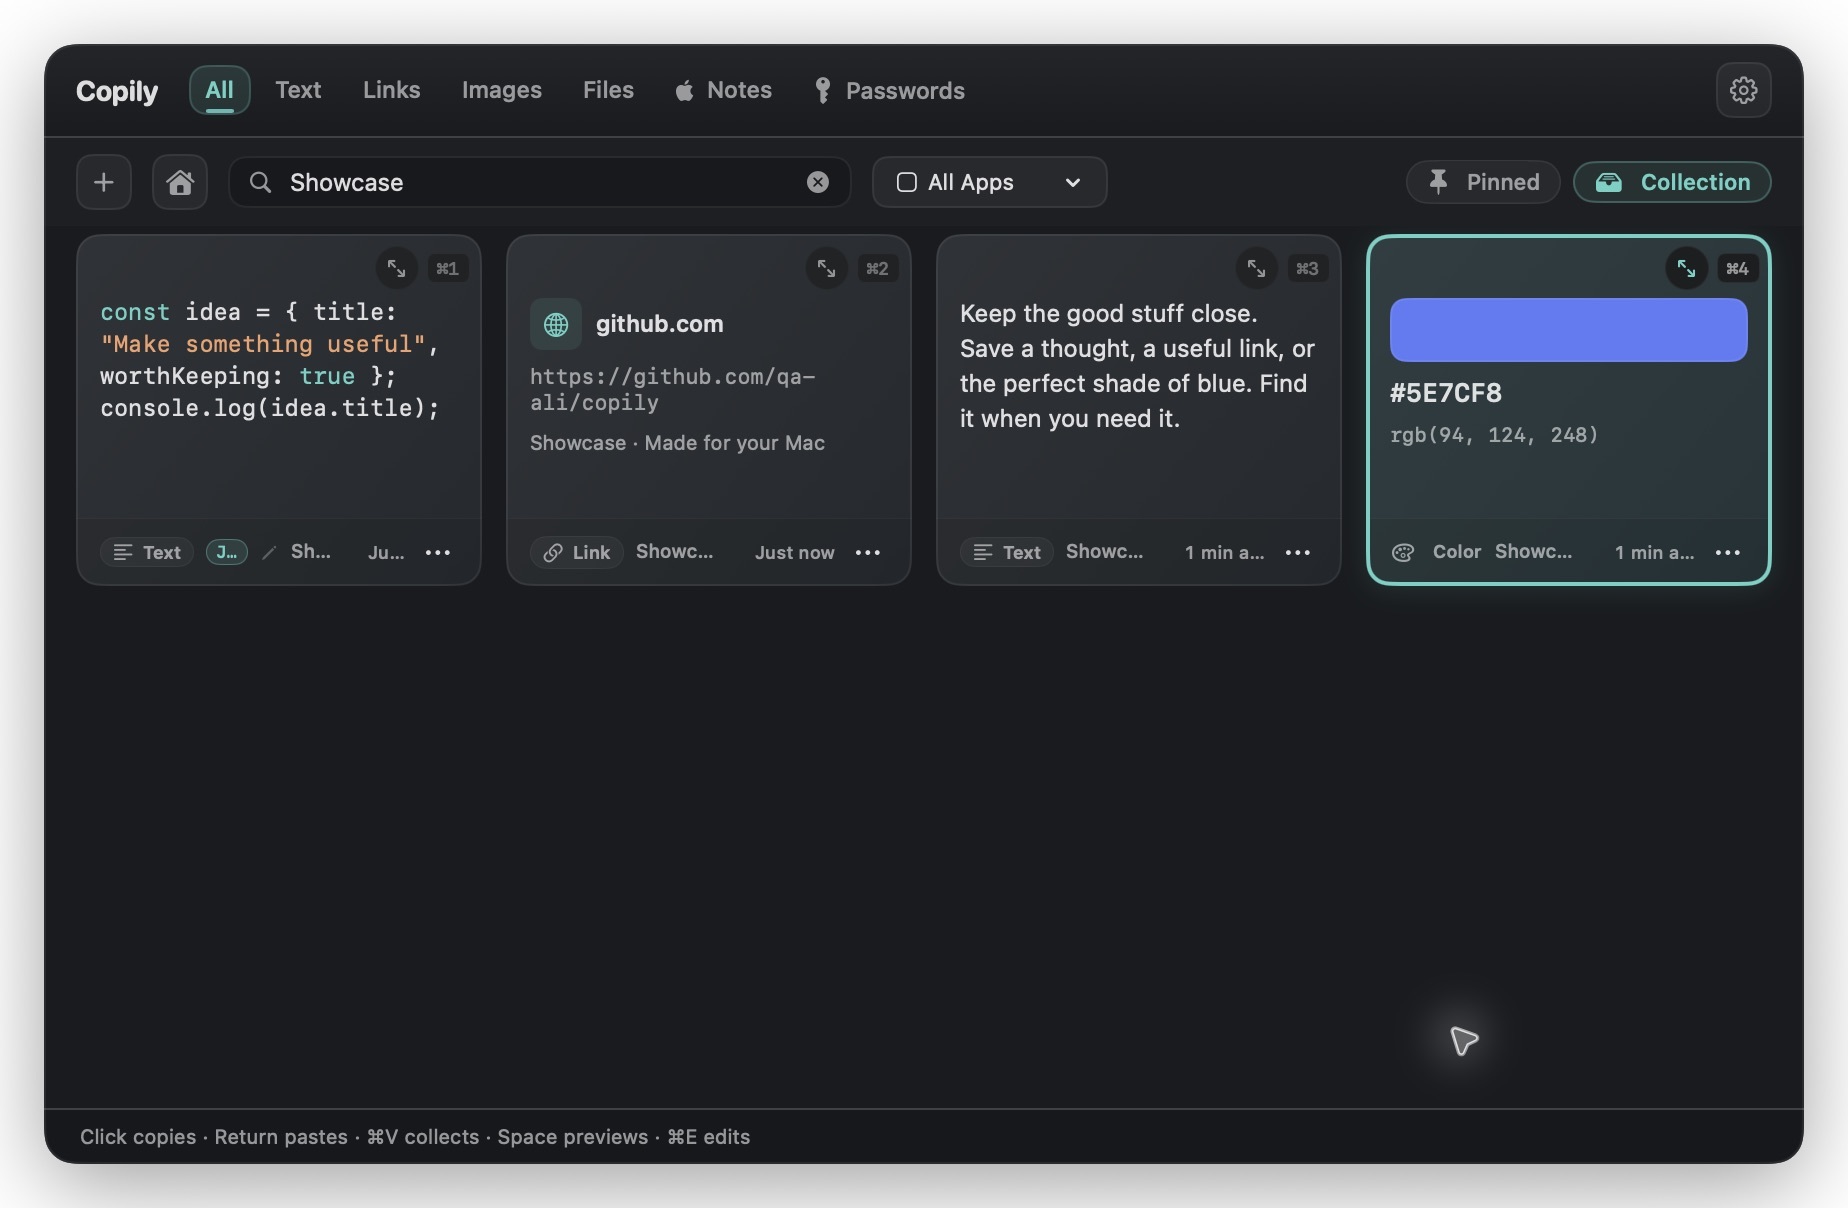
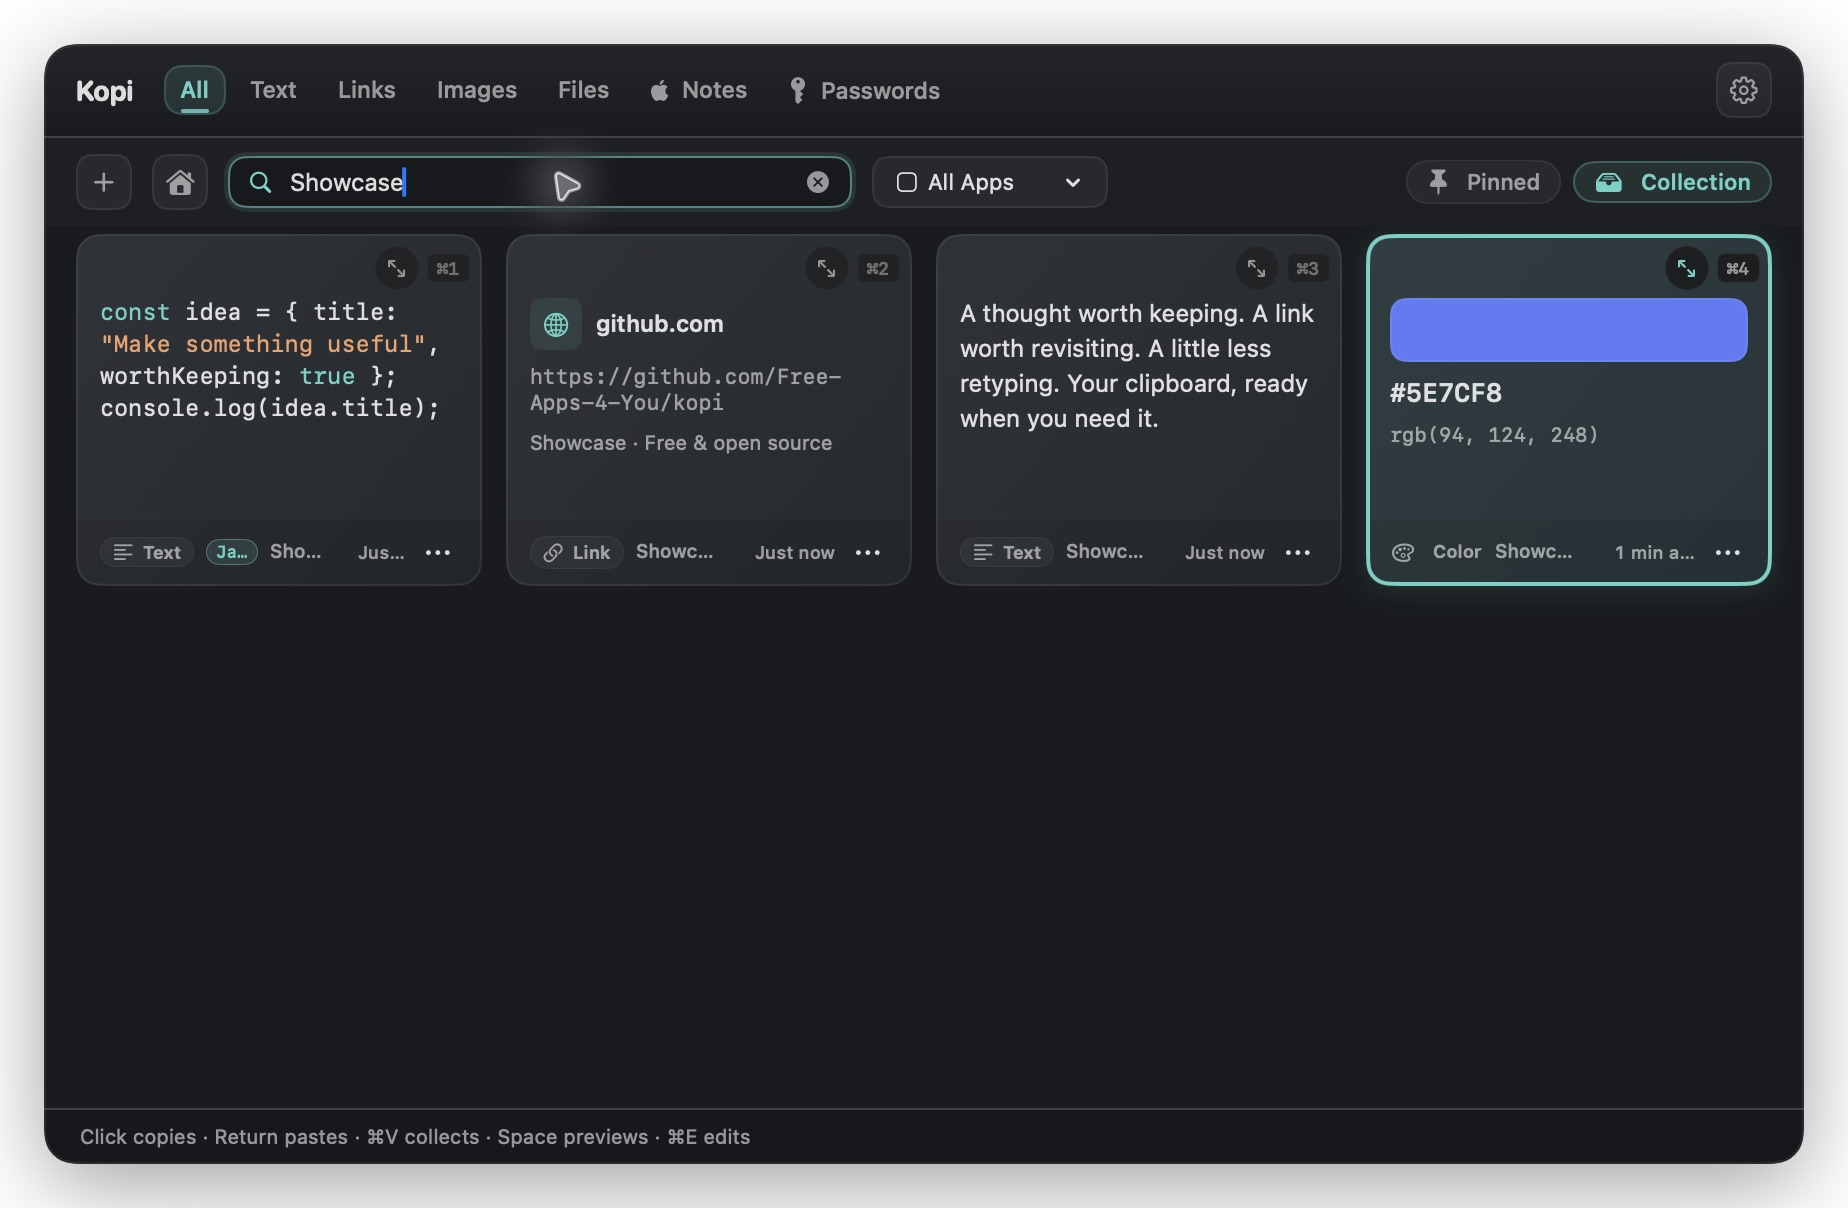
Isolate historical migration identifiers and refresh Kopi screenshots

diff --git a/Sources/KopiCore/App/KopiSettings.swift b/Sources/KopiCore/App/KopiSettings.swift
@@ -147,7 +147,7 @@ public final class KopiSettingsStore: ObservableObject {
     ///
     /// This is an archived suite name: its values are read once, when the current
     /// suite has no settings yet, and never written again.
-    public static let archivedSuiteName = "com.copily.Copily"
+    public static let archivedSuiteName = LegacyAppIdentity.settingsSuiteName
     public static let archivedSuiteNames = [archivedSuiteName, "com.velpy.Velpy"]
     public static let storageKey = "kopi.settings"
     /// Set once the archived suite has been considered, so Reset to Defaults is not
@@ -189,8 +189,8 @@ public final class KopiSettingsStore: ObservableObject {
               !current.bool(forKey: migrationKey)
         else { return }
         // A reset in the previous app must not reimport an even older preference.
-        if archived.data(forKey: "copily.settings") == nil,
-           archived.bool(forKey: "copily.settings.migrationCompleted") {
+        if archived.data(forKey: LegacyAppIdentity.settingsStorageKey) == nil,
+           archived.bool(forKey: LegacyAppIdentity.settingsMigrationKey) {
             current.set(try? JSONEncoder().encode(KopiSettings()), forKey: storageKey)
             current.set(true, forKey: migrationKey)
             return
@@ -208,7 +208,7 @@ public final class KopiSettingsStore: ObservableObject {
     /// Undecodable values, values that carry no choice, and the unrelated
     /// system-wide defaults a `UserDefaults` view also reports are ignored.
     private static func archivedSettingsBlob(in archived: UserDefaults) -> Data? {
-        for key in [storageKey, "copily.settings", "velpy.settings"] {
+        for key in [storageKey, LegacyAppIdentity.settingsStorageKey, "velpy.settings"] {
             if let data = archived.data(forKey: key),
                (try? JSONDecoder().decode(KopiSettings.self, from: data)) != nil { return data }
         }

diff --git a/Tests/KopiCoreTests/DataMigrationTests.swift b/Tests/KopiCoreTests/DataMigrationTests.swift
@@ -70,7 +70,7 @@ struct ApplicationDataMigrationTests {
     func newestArchiveWins() throws {
         let support = supportDirectory()
         defer { try? FileManager.default.removeItem(at: support) }
-        try write("recent", to: support.appendingPathComponent("Copily/history.sqlite"))
+        try write("recent", to: support.appendingPathComponent("\(LegacyAppIdentity.supportDirectoryName)/history.sqlite"))
         try write("old", to: support.appendingPathComponent("Velpy/history.sqlite"))
         #expect(try ApplicationDataMigration.migrateSupportDirectoryIfNeeded(supportDirectory: support))
         #expect(try String(contentsOf: currentDirectory(in: support).appendingPathComponent("history.sqlite"), encoding: .utf8) == "recent")
@@ -138,7 +138,7 @@ struct SettingsMigrationTests {
     func importsExplicitPreviousDefaults() throws {
         try withSuites { current, archived in
             let blob = try JSONEncoder().encode(KopiSettings())
-            archived.set(blob, forKey: "copily.settings")
+            archived.set(blob, forKey: LegacyAppIdentity.settingsStorageKey)
             let migrated = KopiSettingsStore(defaults: current, archivedDefaults: archived)
             #expect(migrated.settings == KopiSettings())
             #expect(current.data(forKey: KopiSettingsStore.storageKey) == blob)
@@ -148,7 +148,7 @@ struct SettingsMigrationTests {
     @Test("A previous-app reset prevents resurrection of older preferences")
     func importsPreviousReset() throws {
         try withSuites { current, archived in
-            archived.set(true, forKey: "copily.settings.migrationCompleted")
+            archived.set(true, forKey: LegacyAppIdentity.settingsMigrationKey)
             var stale = KopiSettings()
             stale.appearance = .dark
             archived.set(try JSONEncoder().encode(stale), forKey: "velpy.settings")

diff --git a/Sources/KopiCore/Persistence/HistoryStoreSchema.swift b/Sources/KopiCore/Persistence/HistoryStoreSchema.swift
@@ -12,14 +12,14 @@ enum HistoryStoreSchema {
             try db.execute(sql: schemaV2)
         }
         // Historical migration identifiers and table names must remain readable.
-        migrator.registerMigration("v3_copily_metadata") { db in
-            if try !db.tableExists("copily_metadata"), try db.tableExists("velpy_metadata") {
-                try db.execute(sql: "ALTER TABLE velpy_metadata RENAME TO copily_metadata")
+        migrator.registerMigration(LegacyAppIdentity.metadataMigration) { db in
+            if try !db.tableExists(LegacyAppIdentity.metadataTable), try db.tableExists("velpy_metadata") {
+                try db.execute(sql: "ALTER TABLE velpy_metadata RENAME TO \(LegacyAppIdentity.metadataTable)")
             }
         }
         migrator.registerMigration("v4_kopi_metadata") { db in
-            if try !db.tableExists("kopi_metadata"), try db.tableExists("copily_metadata") {
-                try db.execute(sql: "ALTER TABLE copily_metadata RENAME TO kopi_metadata")
+            if try !db.tableExists("kopi_metadata"), try db.tableExists(LegacyAppIdentity.metadataTable) {
+                try db.execute(sql: "ALTER TABLE \(LegacyAppIdentity.metadataTable) RENAME TO kopi_metadata")
             }
         }
         try migrator.migrate(writer)

diff --git a/Tests/KopiCoreTests/HistoryStorePersistenceTests.swift b/Tests/KopiCoreTests/HistoryStorePersistenceTests.swift
@@ -20,7 +20,7 @@ struct HistoryStorePersistenceTests {
         try await database.write { db in
             // Reproduce the database left by the app before its rename.
             try db.execute(sql: "ALTER TABLE kopi_metadata RENAME TO velpy_metadata")
-            try db.execute(sql: "DELETE FROM grdb_migrations WHERE identifier IN ('v3_copily_metadata', 'v4_kopi_metadata')")
+            try db.execute(sql: "DELETE FROM grdb_migrations WHERE identifier IN ('\(LegacyAppIdentity.metadataMigration)', 'v4_kopi_metadata')")
             try db.execute(sql: "INSERT INTO velpy_metadata(key, value) VALUES ('upgrade_marker', 'preserved')")
         }
 
@@ -49,7 +49,7 @@ struct HistoryStorePersistenceTests {
         let inserted = try await workspace.store.insert(textInsertion("Already using the new name"))
         let database = try DatabaseQueue(path: workspace.databasePath)
         try await database.write { db in
-            try db.execute(sql: "ALTER TABLE kopi_metadata RENAME TO copily_metadata")
+            try db.execute(sql: "ALTER TABLE kopi_metadata RENAME TO \(LegacyAppIdentity.metadataTable)")
             try db.execute(sql: "DELETE FROM grdb_migrations WHERE identifier = 'v4_kopi_metadata'")
         }
 

diff --git a/Tests/KopiCoreTests/ClipboardInspiredFeaturesTests.swift b/Tests/KopiCoreTests/ClipboardInspiredFeaturesTests.swift
@@ -7,8 +7,8 @@ import Testing
 struct ClipboardInspiredFeaturesTests {
     @Test("Previous app identities are displayed and filtered as Kopi")
     func previousBrandIdentity() {
-        #expect(SourceAppInfo.canonicalBundleIdentifier("com.copily.app") == "com.kopi.app")
-        #expect(SourceAppInfo(bundleIdentifier: "com.copily.app", name: "Copily").kopiDisplayName == "Kopi")
+        #expect(SourceAppInfo.canonicalBundleIdentifier(LegacyAppIdentity.bundleIdentifier) == "com.kopi.app")
+        #expect(SourceAppInfo(bundleIdentifier: LegacyAppIdentity.bundleIdentifier, name: LegacyAppIdentity.supportDirectoryName).kopiDisplayName == "Kopi")
     }
 
     @Test("Colors recognize explicit HEX and RGB formats without guessing ordinary text")

diff --git a/Sources/KopiCore/App/LegacyAppIdentity.swift b/Sources/KopiCore/App/LegacyAppIdentity.swift
@@ -1,0 +1,11 @@
+/// Read-only identifiers from the previous release. These are migration inputs,
+/// never current branding. Changing them would make existing user data invisible.
+public enum LegacyAppIdentity {
+    public static let supportDirectoryName = "Copily"
+    public static let bundleIdentifier = "com.copily.app"
+    public static let settingsSuiteName = "com.copily.Copily"
+    public static let settingsStorageKey = "copily.settings"
+    public static let settingsMigrationKey = "copily.settings.migrationCompleted"
+    public static let metadataTable = "copily_metadata"
+    public static let metadataMigration = "v3_copily_metadata"
+}

diff --git a/Sources/KopiCore/Domain/FileReference.swift b/Sources/KopiCore/Domain/FileReference.swift
@@ -4,7 +4,7 @@ import Foundation
 public struct SourceAppInfo: Sendable, Hashable, Codable {
     public static let kopiBundleIdentifier = "com.kopi.app"
     /// These identify the same app in history written before its rename.
-    public static let kopiBundleIdentifiers = ["com.kopi.app", "com.copily.app", "com.velpy.app", "com.velpy.Velpy"]
+    public static let kopiBundleIdentifiers = ["com.kopi.app", LegacyAppIdentity.bundleIdentifier, "com.velpy.app", "com.velpy.Velpy"]
 
     public static func canonicalBundleIdentifier(_ identifier: String) -> String {
         kopiBundleIdentifiers.contains(identifier) ? kopiBundleIdentifier : identifier

diff --git a/Sources/Kopi/Support/SourceAppDisplay.swift b/Sources/Kopi/Support/SourceAppDisplay.swift
@@ -1,11 +1,12 @@
 import KopiCore
 
 extension SourceAppInfo {
-    /// Present this app's current name without rewriting historical clipboard data.
+    /// Present the current name without rewriting historical clipboard data.
     var kopiDisplayName: String? {
-        switch bundleIdentifier {
-        case "com.velpy.app", "com.velpy.Velpy", "com.copily.app", "com.kopi.app": "Kopi"
-        default: displayName
+        if let bundleIdentifier,
+           Self.canonicalBundleIdentifier(bundleIdentifier) == Self.kopiBundleIdentifier {
+            return "Kopi"
         }
+        return displayName
     }
 }

diff --git a/Sources/KopiCore/App/ApplicationDataMigration.swift b/Sources/KopiCore/App/ApplicationDataMigration.swift
@@ -10,7 +10,7 @@ public enum ApplicationDataMigration {
     ///
     /// This is an archived directory name: it identifies data written by earlier
     /// builds and is only moved away from.
-    public static let archivedSupportDirectoryName = "Copily"
+    public static let archivedSupportDirectoryName = LegacyAppIdentity.supportDirectoryName
     public static let archivedSupportDirectoryNames = [archivedSupportDirectoryName, "Velpy"]
 
     /// Application Support folder the application uses now.
